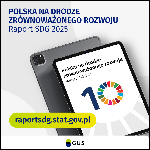
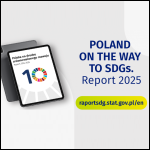
Zgłoszenie z 03.02.2026 Linki do angielskiej wersji Raportu 2025 - menu górne + zakładka Publikacje

diff --git a/_includes/header.html b/_includes/header.html
@@ -173,7 +173,7 @@
 
               {% else %}
                 <li class="nav-item small">
-                  <a class="nav-link" href="https://raportsdg.stat.gov.pl/index.html" style="margin-left: 15px;width: 100%;text-decoration: none;color: #000;" title="{{t.nav-raport-title-2025}}">{{ t.nav-raport-2025 }}</a>
+                  <a class="nav-link" href="https://raportsdg.stat.gov.pl/en/index.html" style="margin-left: 15px;width: 100%;text-decoration: none;color: #000;" title="{{t.nav-raport-title-2025}}">{{ t.nav-raport-2025 }}</a>
                 </li>
                 <li class="nav-item small">
                   <a class="nav-link" href="https://raportsdg.stat.gov.pl/2024/en/index.html" style="margin-left: 15px;width: 100%;text-decoration: none;color: #000;" title="{{t.nav-raport-title-2024}}">{{ t.nav-raport-2024 }}</a>
@@ -253,7 +253,7 @@
               </div>
             {% else %}
               <div class="dropdown-content" style="margin-right: 15px;">
-               <a class="pod" href="https://raportsdg.stat.gov.pl/index.html" style="padding: 9px; border-bottom-style:solid; border-color:#dddddd; border-width:thin; width: 150px;" title="{{t.nav-raport-title-2025}}">{{ t.nav-raport-2025 }}</a>
+               <a class="pod" href="https://raportsdg.stat.gov.pl/en/index.html" style="padding: 9px; border-bottom-style:solid; border-color:#dddddd; border-width:thin; width: 150px;" title="{{t.nav-raport-title-2025}}">{{ t.nav-raport-2025 }}</a>
                <a class="pod" href="https://raportsdg.stat.gov.pl/2024/en/index.html" style="padding: 9px; border-bottom-style:solid; border-color:#dddddd; border-width:thin; width: 150px;" title="{{t.nav-raport-title-2024}}">{{ t.nav-raport-2024 }}</a>
                <a class="pod" href="https://raportsdg.stat.gov.pl/2023/en/index.html" style="padding: 9px; border-bottom-style:solid; border-color:#dddddd; border-width:thin; width: 150px;" title="{{t.nav-raport-title-2023}}">{{ t.nav-raport-2023 }}</a>
                <a class="pod" href="https://raportsdg.stat.gov.pl/2022/en/index.html" style="padding: 9px; border-bottom-style:solid; border-color:#dddddd; border-width:thin; width: 150px;" title="{{t.nav-raport-title-2022}}">{{ t.nav-raport-2022 }}</a>
@@ -555,7 +555,7 @@ localStorage.removeItem("nat-toolkit-accepted");
         var headers = document.querySelector(".site-navbar");
         headers.after(element);
       }else{
-        element.innerHTML = "<div id='national-toolkit-wrap'><div id='national-toolkit-text'><a target='_blank' href='https://raportsdg.stat.gov.pl/index.html' >"+ this.text + "</a></div></div><div id='national-toolkit-btns'><a target='_blank' id='natio' href='https://raportsdg.stat.gov.pl/index.html' onclick='FuncZamk()'>Select</a><a id='natio' onclick='FuncZamk()'>Skip</a></div></div>";
+        element.innerHTML = "<div id='national-toolkit-wrap'><div id='national-toolkit-text'><a target='_blank' href='https://raportsdg.stat.gov.pl/en/index.html' >"+ this.text + "</a></div></div><div id='national-toolkit-btns'><a target='_blank' id='natio' href='https://raportsdg.stat.gov.pl/en/index.html' onclick='FuncZamk()'>Select</a><a id='natio' onclick='FuncZamk()'>Skip</a></div></div>";
         var headers = document.querySelector(".site-navbar");
         headers.after(element);
       }

diff --git a/en/o_sdg.md b/en/o_sdg.md
@@ -213,7 +213,7 @@ permalink: /en/o_sdg/
   <h4><b>STATISTICS POLAND</b> (coordinator of SDG monitoring in Poland)</h4>
 
   <div class="image-wrapper">
-      <a target="_blank" href="https://raportsdg.stat.gov.pl/index.html" alt="Poland on the way to SDGs. Report 2025" title="Read a publication Poland on the way to SDGs. Report 2025" target="_blank"><img src="{{ site.baseurl }}/assets/img/publikacje/1_b_raport_2025_en.png" align="center" alt="GUS" border="0"/></a>
+      <a target="_blank" href="https://raportsdg.stat.gov.pl/en/index.html" alt="Poland on the way to SDGs. Report 2025" title="Read a publication Poland on the way to SDGs. Report 2025" target="_blank"><img src="{{ site.baseurl }}/assets/img/publikacje/1_b_raport_2025_en.png" align="center" alt="GUS" border="0"/></a>
   </div>
   <p><b>Poland on the way to SDGs. Report 2025</b></p>
 
